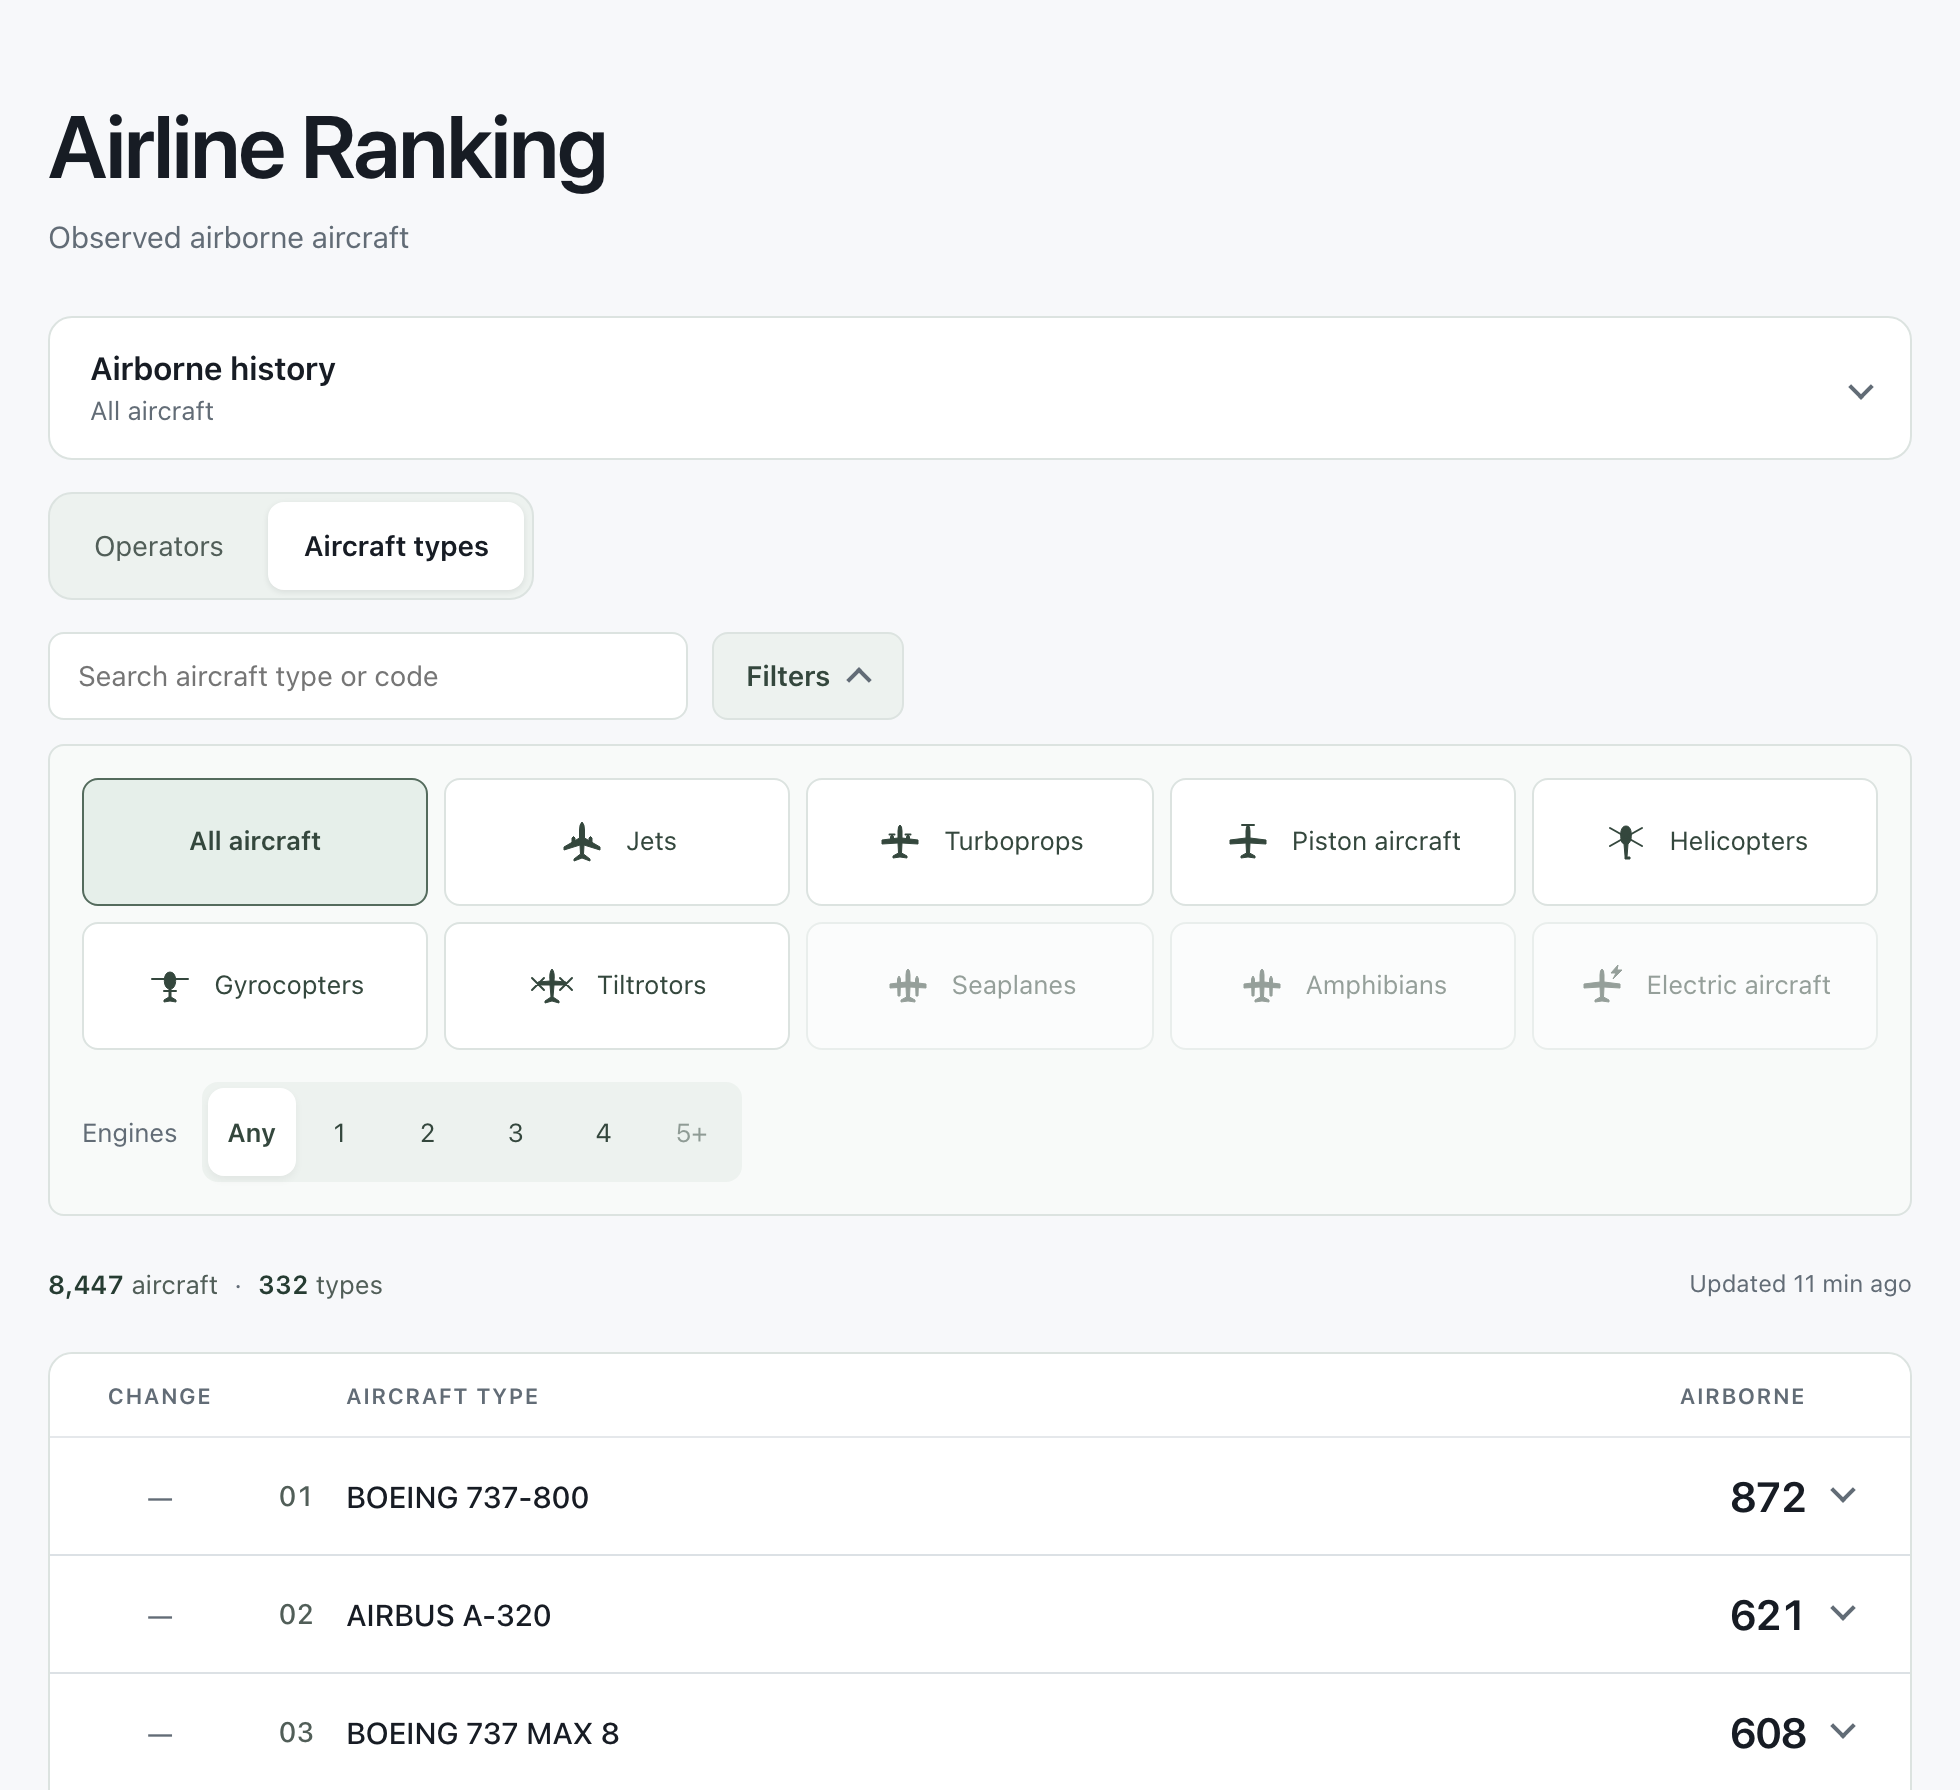
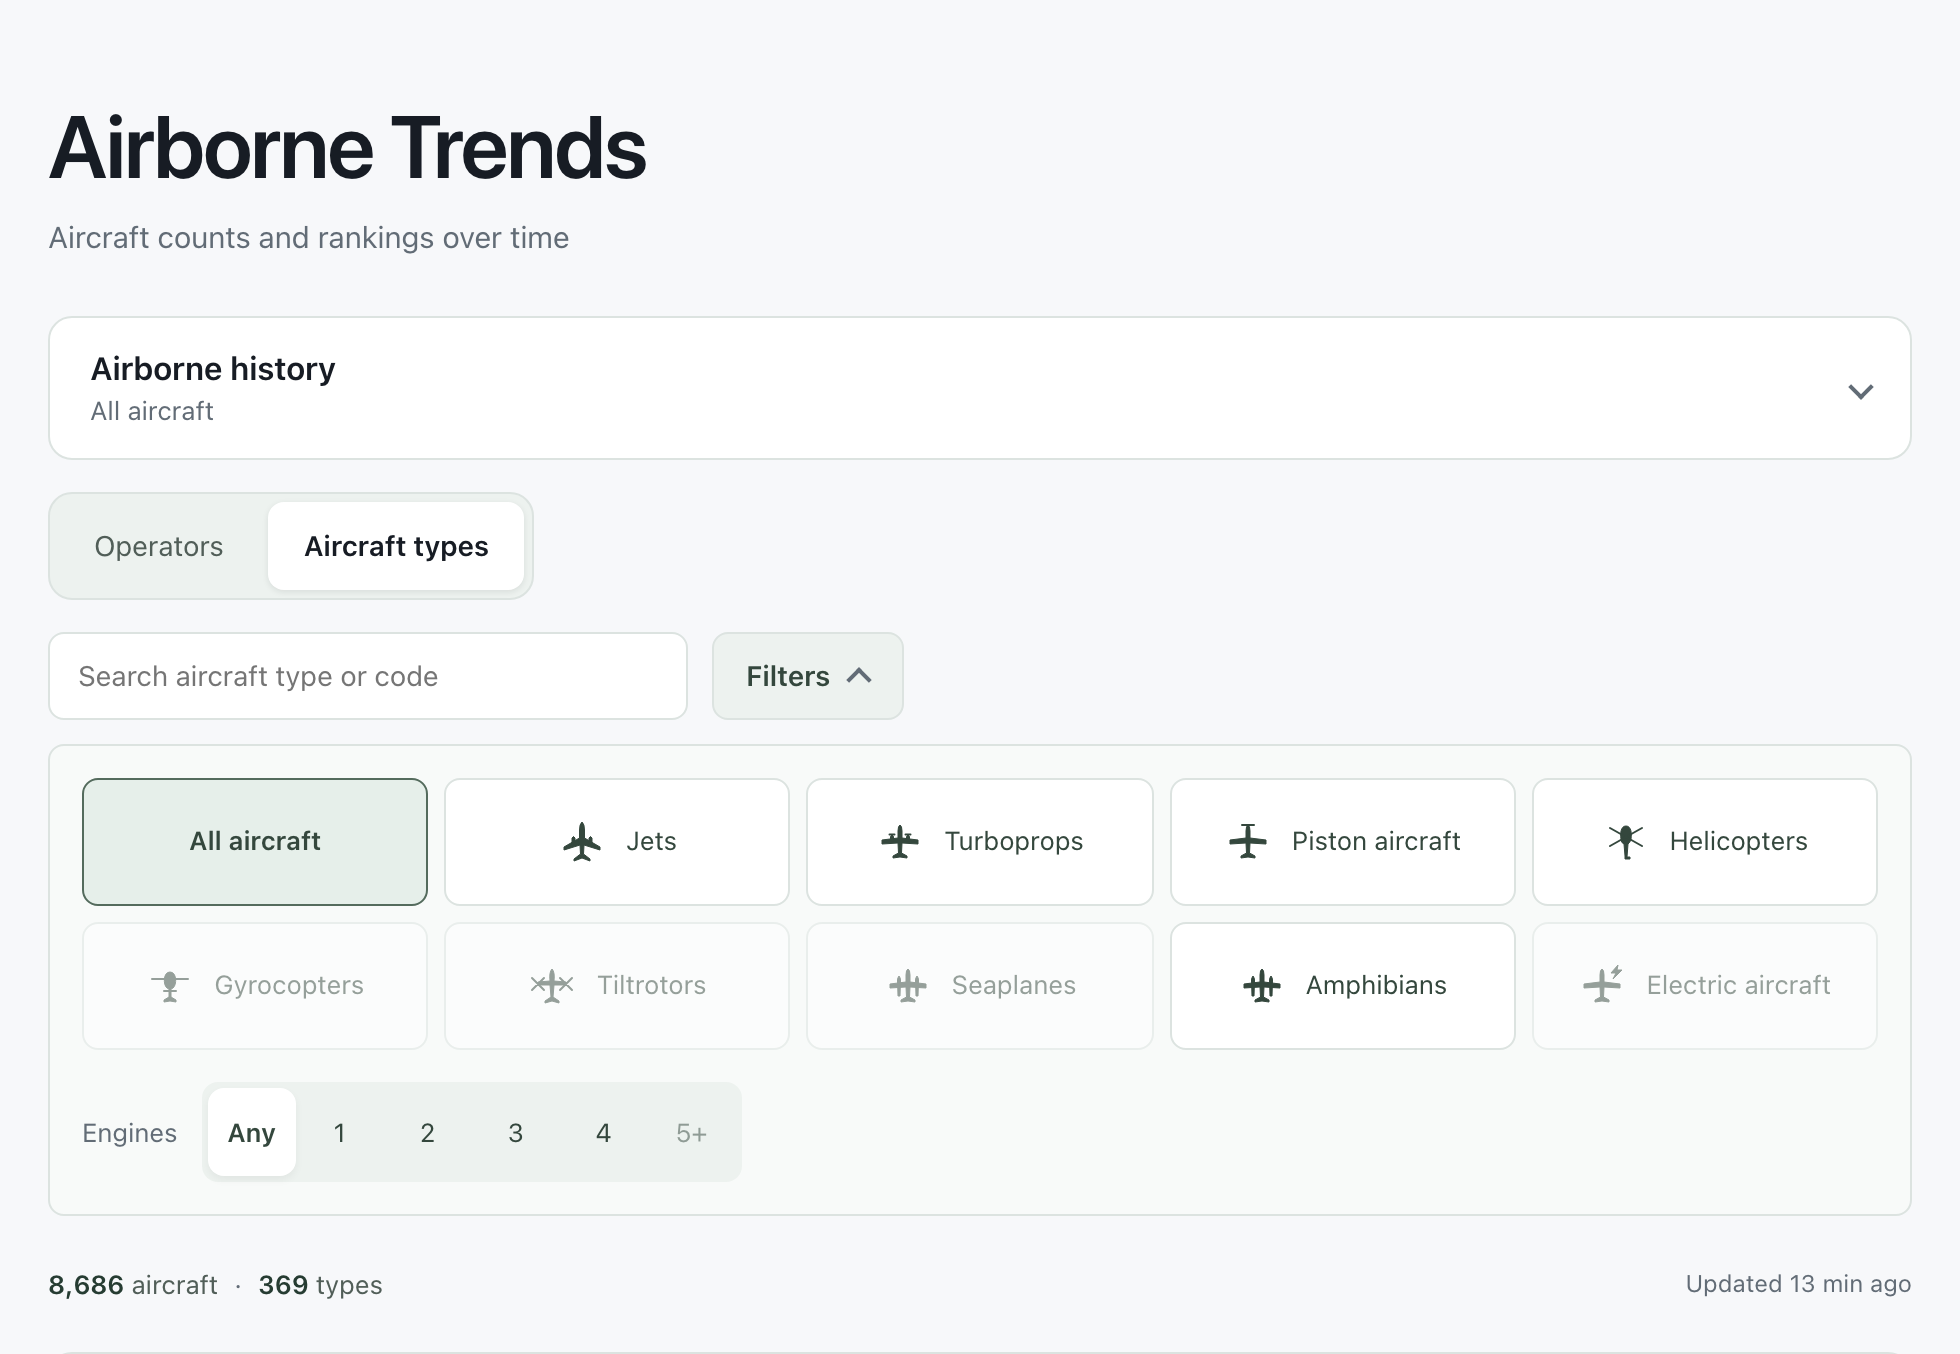
Rename the application to Airborne Trends (#70)

diff --git a/src/index.html b/src/index.html
@@ -2,11 +2,11 @@
 <html lang="en">
 <head>
   <meta charset="utf-8">
-  <title>Airline Ranking</title>
+  <title>Airborne Trends</title>
   <base href="/">
   <meta name="viewport" content="width=device-width, initial-scale=1">
   <meta name="theme-color" content="#f7f8fa">
-  <meta name="description" content="A simple ranking of observed aircraft airborne, updated every 15 minutes.">
+  <meta name="description" content="Explore observed airborne aircraft counts, ranked by operator and aircraft type, and see how they change over time.">
 </head>
 <body><app-root></app-root></body>
 </html>

diff --git a/infra/publish.ts b/infra/publish.ts
@@ -68,6 +68,6 @@ if (process.argv[1] && import.meta.url === pathToFileURL(process.argv[1]).href) 
   const outputsPath = process.argv[2];
   if (!outputsPath) { throw new Error('Provide the CDK outputs JSON file'); }
   const value: unknown = JSON.parse(await readFile(outputsPath, 'utf8'));
-  await publishWebsite('dist/airline-ranking/browser', readWebsiteOutputs(value));
+  await publishWebsite('dist/airborne-trends/browser', readWebsiteOutputs(value));
   console.log('Website published and CloudFront invalidation completed.');
 }

diff --git a/infra/release.ts b/infra/release.ts
@@ -71,6 +71,6 @@ if (process.argv[1] && import.meta.url === pathToFileURL(process.argv[1]).href) 
   if (history) { validateFunctionArn(history); }
   await releaseBackend(await packageBackend(), refresh);
   if (history) { await releaseBackend(await packageBackend(true), history); }
-  await publishWebsite('dist/airline-ranking/browser', website);
+  await publishWebsite('dist/airborne-trends/browser', website);
   console.log('Backend and frontend released. Infrastructure and polling settings were not changed.');
 }

diff --git a/infra/app.ts b/infra/app.ts
@@ -1,9 +1,9 @@
 import { App } from 'aws-cdk-lib';
-import { AirlineRankingStack } from './stack.ts';
+import { AirborneTrendsStack } from './stack.ts';
 import { DeploymentStack } from './deployment-stack.ts';
 
 const app = new App();
-const application = new AirlineRankingStack(app, 'AirlineRanking', {
+const application = new AirborneTrendsStack(app, 'AirlineRanking', {
   env: { account: process.env['CDK_DEFAULT_ACCOUNT'], region: 'eu-north-1' },
   terminationProtection: true,
 });

diff --git a/infra/verify.ts b/infra/verify.ts
@@ -27,6 +27,6 @@ export async function verifyDeployment(expectedHtml: string): Promise<void> {
 }
 
 if (process.argv[1] && import.meta.url === pathToFileURL(process.argv[1]).href) {
-  const expectedHtml = await readFile('dist/airline-ranking/browser/index.html', 'utf8');
+  const expectedHtml = await readFile('dist/airborne-trends/browser/index.html', 'utf8');
   await verifyDeployment(expectedHtml);
 }

diff --git a/infra/stack.ts b/infra/stack.ts
@@ -22,7 +22,7 @@ import { fileURLToPath } from 'node:url';
 
 const domainName = 'airlines.markuskuosmanen.com';
 
-export class AirlineRankingStack extends Stack {
+export class AirborneTrendsStack extends Stack {
   readonly website: s3.Bucket;
   readonly distribution: cloudfront.Distribution;
   readonly refresh: nodejs.NodejsFunction;

diff --git a/src/app.html b/src/app.html
@@ -1,7 +1,7 @@
 <main>
   <header class="page-header">
-    <h1>Airline Ranking</h1>
-    <p class="subtitle">Observed airborne aircraft</p>
+    <h1>Airborne Trends</h1>
+    <p class="subtitle">Aircraft counts and rankings over time</p>
   </header>
 
   <app-history-chart />

diff --git a/docs/deployment.md b/docs/deployment.md
@@ -6,7 +6,7 @@
 
 `infra/stack.ts` defines one stack: two private S3 buckets, CloudFront with Origin Access Control, an ARM64 Node.js 22 Lambda, a 15-minute EventBridge Scheduler schedule, and an email alarm for Lambda errors. The frontend and ranking endpoints share one CloudFront origin; browser traffic does not invoke Lambda or SkyLink. No API Gateway, VPC or NAT gateway is required. Stack helpers separate hosting, state storage, refresh scheduling and alerts while creating resources under the original stack scope and construct IDs.
 
-The public address is `https://airlines.markuskuosmanen.com`. The stack creates an A alias pointing to the existing distribution in the supplied public hosted zone; it does not create another zone or register the domain. It uses a separately issued, non-exportable ACM certificate in `us-east-1`, as required for global CloudFront HTTPS. Application resources stay in Stockholm. The original CloudFront address remains available as `WebsiteUrl`; `CustomDomainUrl` supplies the custom address.
+Airborne Trends uses the original `AirlineRanking` stack names and `/airline-ranking/` parameter path. The public address is `https://airlines.markuskuosmanen.com`. The stack creates an A alias pointing to the existing distribution in the supplied public hosted zone; it does not create another zone or register the domain. It uses a separately issued, non-exportable ACM certificate in `us-east-1`, as required for global CloudFront HTTPS. Application resources stay in Stockholm. The original CloudFront address remains available as `WebsiteUrl`; `CustomDomainUrl` supplies the custom address.
 
 Before deploying, finish domain registration and verify any registrant email AWS requests. Add the certificate's DNS validation CNAME to the domain's hosted zone and wait for ACM to show **Issued**. Keep that CNAME for managed renewal. Supply `CertificateArn` and `HostedZoneId` during the first domain deployment; subsequent deployments reuse the existing parameter values. Domain registration, certificate and zone are managed separately from the application stack.
 

diff --git a/docs/ranking.md b/docs/ranking.md
@@ -152,8 +152,8 @@ Averages describe observed airborne counts, not unique aircraft, flights, passen
 
 History begins when collection was enabled and is prepared hourly, so it can lag the live ranking. The year view leaves earlier time blank rather than extrapolating. Empty periods, insufficient coverage and unavailable history are shown explicitly; a failed history request does not affect the live ranking. Period-to-period comparisons and historical ranking tables are not included.
 
-![Seven-day airborne history with rounded gridlines and uncovered time left blank](images/airborne-history.png)
+![Seven-day airborne history with hourly averages and gaps in coverage](images/airborne-history.png)
 
-*Observed counts over seven days. Time before collection began remains blank.*
+*Hourly averages over seven days. Breaks in the line indicate insufficient coverage.*
 
 Within operator and aircraft-type drawers, Aircraft locations appears before Airborne history. Locations starts expanded and can be collapsed; History starts collapsed. Both sections can be open together.

diff --git a/docs/development.md b/docs/development.md
@@ -43,7 +43,7 @@ Run `npm run check` before committing. GitHub Actions runs the same command plus
 | `npm run typecheck:backend` | Type-check the backend and shared ranking types |
 | `npm test` | Test ranking, caching, provider cost controls, HTTP behavior, scheduled refreshes, infrastructure and release safeguards |
 | `npm run test:browser` | Run ranking, history and responsive interaction checks in Chromium at 320px, 390px and desktop widths |
-| `npm run build` | Build the frontend into `dist/airline-ranking/browser` |
+| `npm run build` | Build the frontend into `dist/airborne-trends/browser` |
 | `npm run typecheck:infra` | Type-check the CDK application |
 | `npm run infra:synth` | Bundle Lambda and validate the generated CloudFormation template without AWS lookups |
 | `npm run infra:diff` | Compare the stack with deployed resources |

diff --git a/README.md b/README.md
@@ -1,6 +1,8 @@
-# Airline Ranking
+# Airborne Trends
 
-Observed airborne aircraft, ranked by operator and aircraft type. Explore the latest snapshot, fleet breakdowns, aircraft locations and historical counts.
+Aircraft counts and rankings over time
+
+Explore the latest snapshot, fleet breakdowns, aircraft locations and historical counts by operator and aircraft type.
 
 [![Checks](https://github.com/kuosmark/airline-ranking/actions/workflows/check.yml/badge.svg)](https://github.com/kuosmark/airline-ranking/actions/workflows/check.yml)
 [![Latest release](https://img.shields.io/github/v/release/kuosmark/airline-ranking)](https://github.com/kuosmark/airline-ranking/releases/latest)
